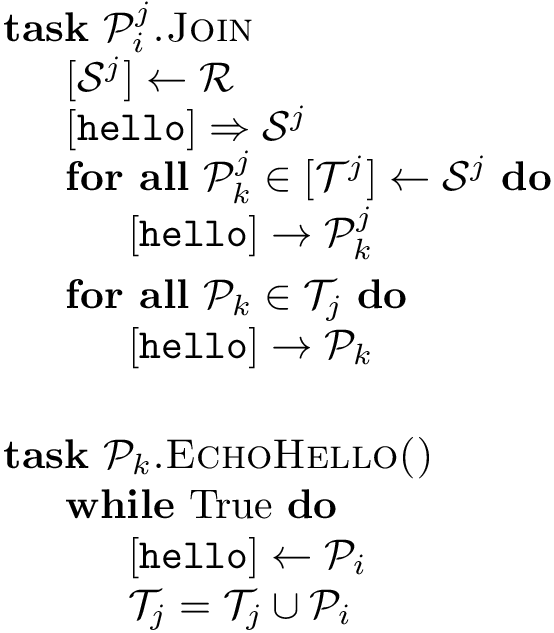
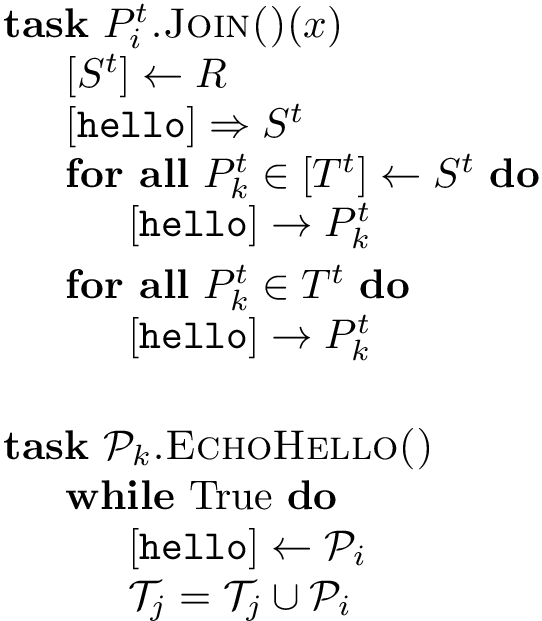
.

diff --git a/graphics/peer_joining.tex b/graphics/peer_joining.tex
@@ -12,12 +12,12 @@
 \algrenewcommand\algorithmicprocedure{\textbf{task}}
 
 \begin{algorithmic}
-  \Procedure{${\cal P}^j_i$.Join}{}
-  \State $[{\cal S}^j] \gets {\cal R}$
+  \Procedure{$P^t_i$.Join}{}
+  \State $[S^t] \gets R$
   %\ForAll{${\cal S}^j\in {\cal S}$}
-  \State $[\mathtt{hello}] \send {\cal S}^j$
-  \ForAll{${\cal P}^j_k\in[{\cal T}^j]\gets{\cal S}^j$}
-  \State $[\mathtt{hello}]\sendto {\cal P}^j_k$
+  \State $[\mathtt{hello}] \send S^t$
+  \ForAll{$P^t_k\in[T^t]\gets S^t$}
+  \State $[\mathtt{hello}]\sendto P^t_k$
   %\If{$[{\cal T}_j] \gets {\cal S}_j$}
   %\State \textbf{Break}
   %\EndIf
@@ -25,8 +25,8 @@
   \EndFor
   %\State $T^*({\cal P}_i)=\{{\cal P}_k~|~\text{RTT}_k<\text{timeout}\}$
   %\State $N({\cal P}_i)=\{\textbf{first}~K~{\cal P}_k \in T^*({\cal P}_i)~|~\text{RTT}_k < \text{RTT}_{k+1}\}$
-  \ForAll{${\cal P}_k\in {\cal T}_j$}
-  \State $[\mathtt{hello}] \sendto {\cal P}_k$
+  \ForAll{$P^t_k\in T^t$}
+  \State $[\mathtt{hello}] \sendto P^t_k$
   \EndFor
   \EndProcedure
   \newline
